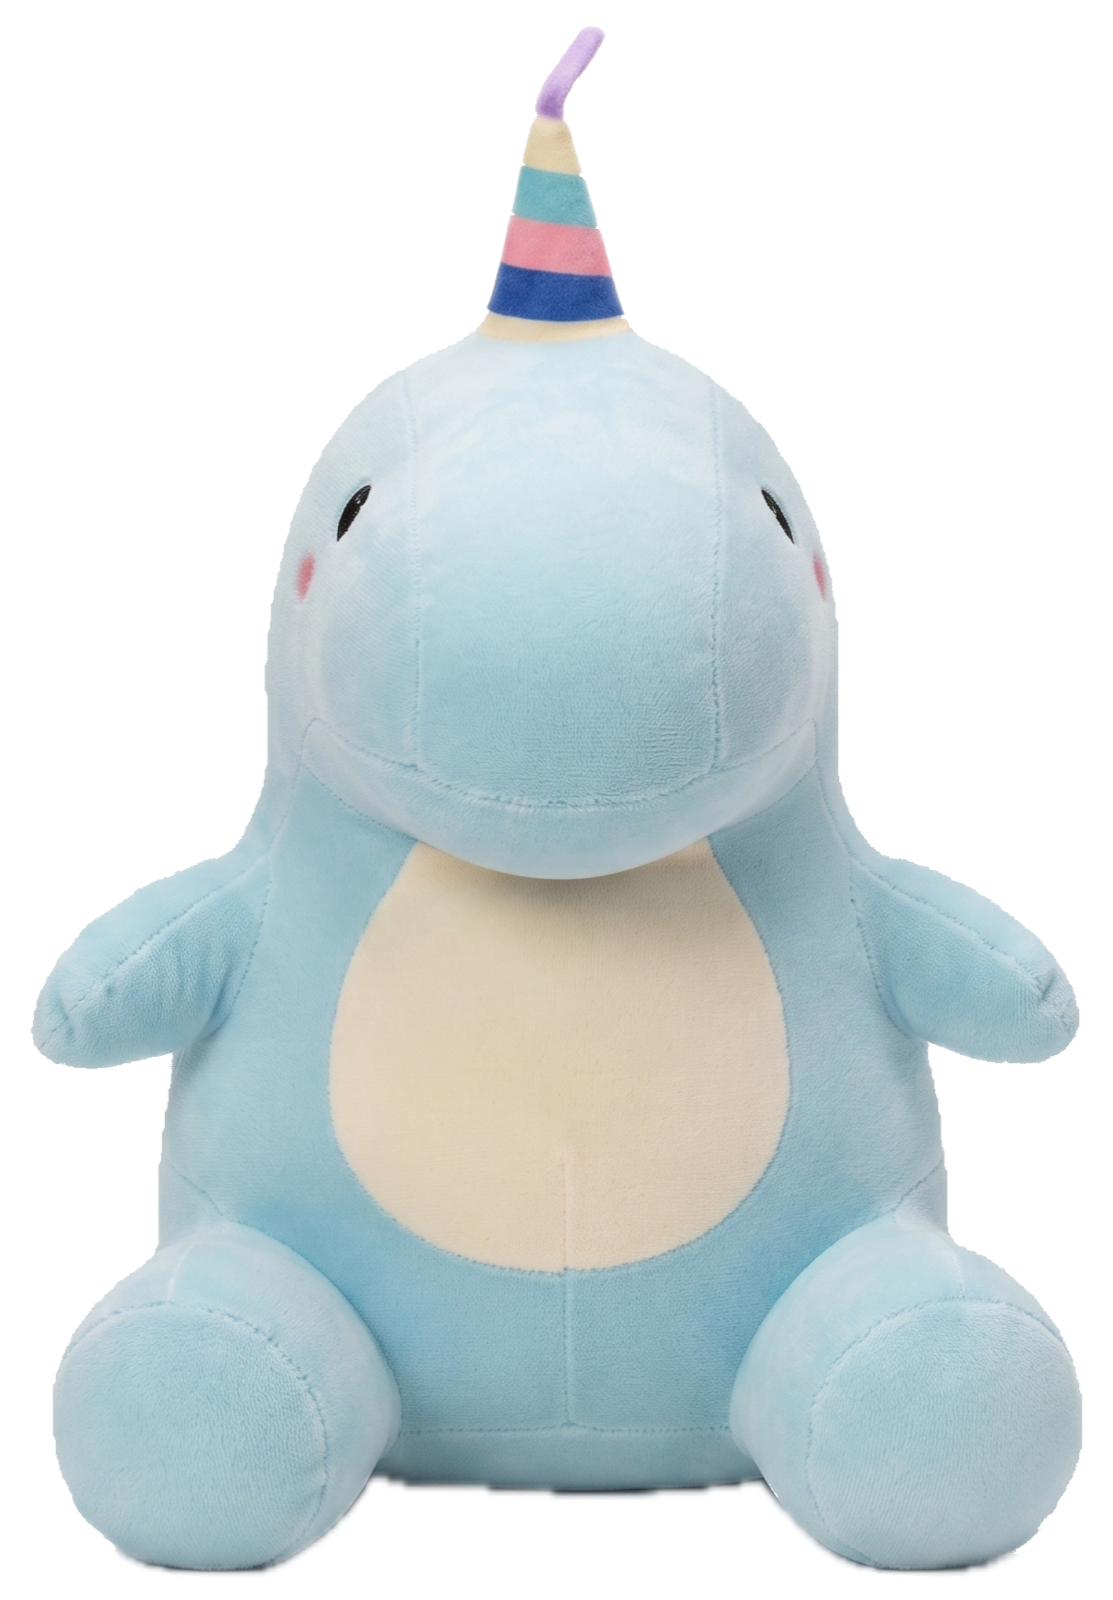
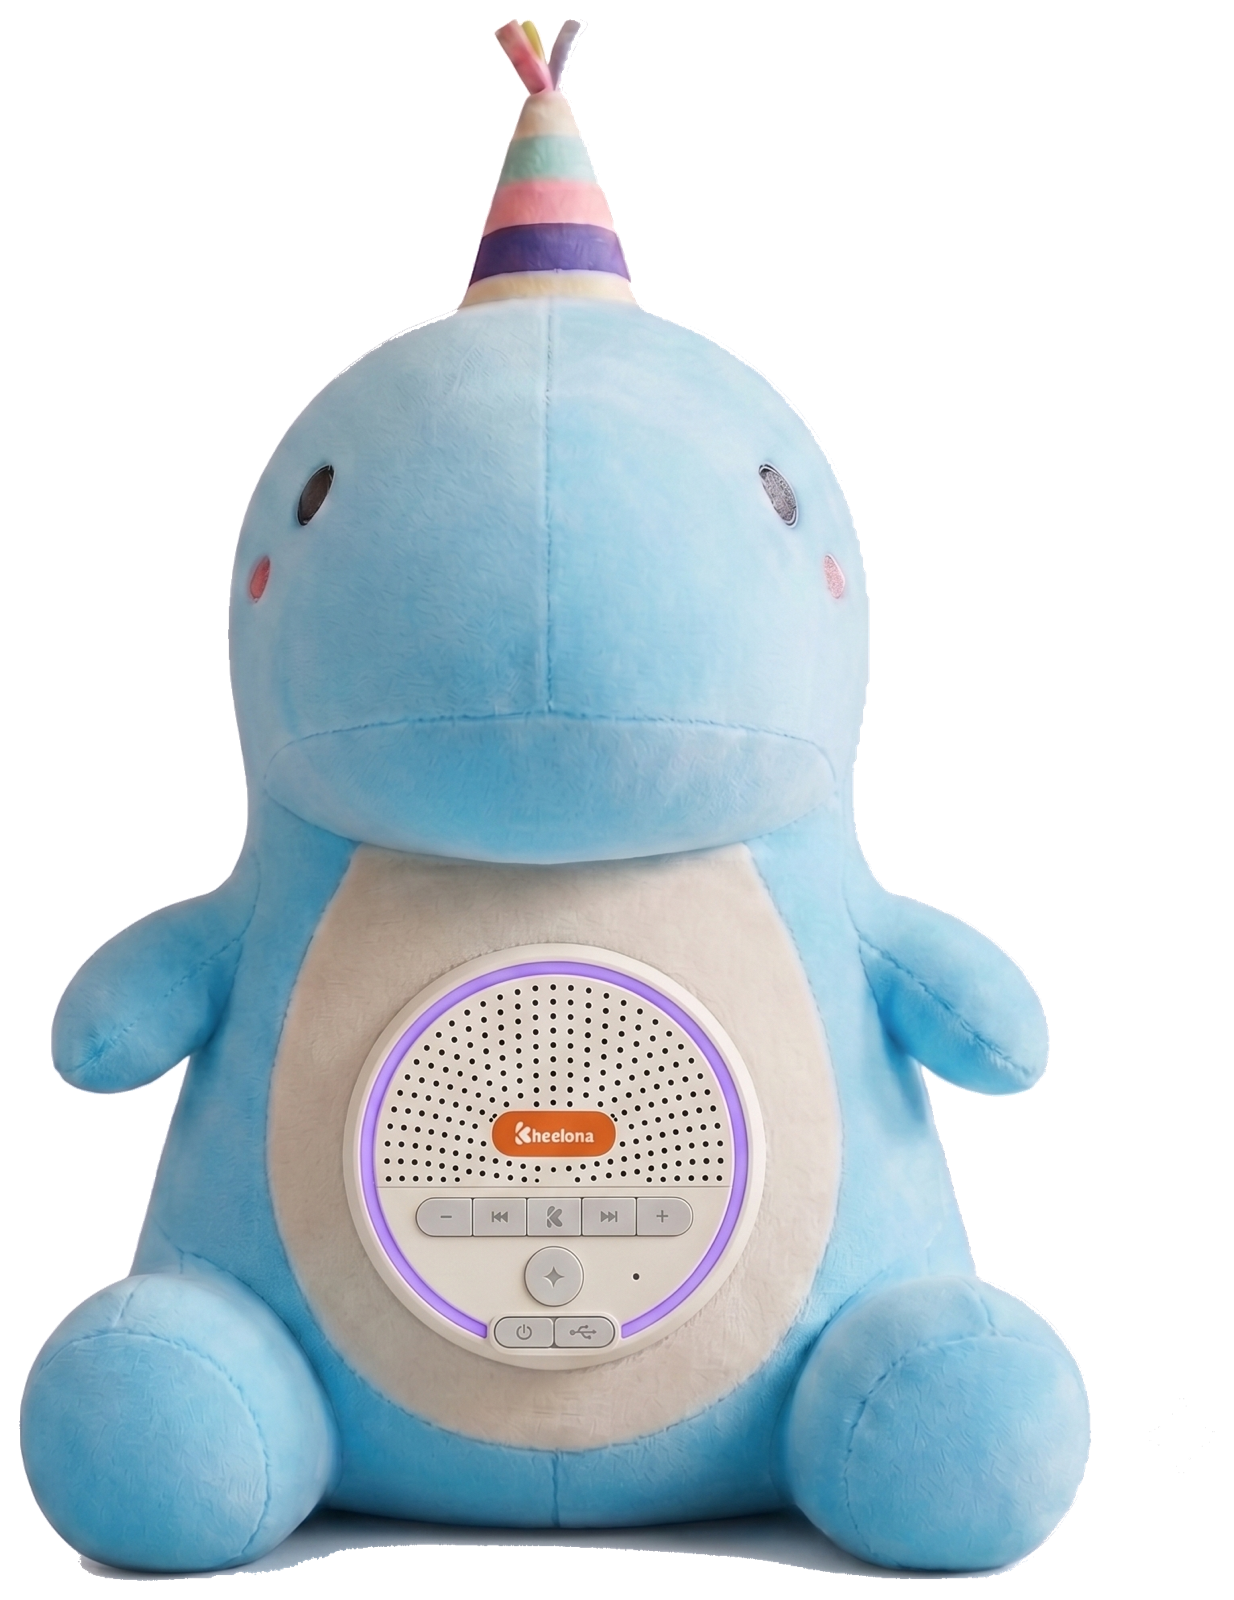
Lumi v2 goes live everywhere, and og.png stops claiming ages 3 to 6
The founder's v2 renders (speaker module in the tummy, per the Playbox
design) replace the plush site-wide. Pipeline per house law: Vision
--no-crop alpha + keycut hybrid so the hat ribbons survive; normalised to
the 1600px house height; installed under the CANONICAL lumi-*-2.png names
so all 8 references hold, with v1 kept web-served as lumi-*-2-old.png per
the founder's keep-for-reference ask. Width props 1113 -> 1234/1239; hero
and family alts now mention the speaker tummy. The unused Playbox speaker
render + v2 sources are staged unpublished in
Design/product-images/generated-2026-07/.

Found while verifying: og.png — on every social share of the live site —
still said 'ages 3 to 6', the band retired in V3. Pixels dodge voice-lint.
Rebuilt at exact 1200x630 (styled HTML card, Chrome capture): V4 hero
copy, correct ages, the D1 brand-orange/ink pill, Kheelu beside the v2
plush. The old card is archived OFF the web root.

Also law'd: next start's optimizer cache (.next/cache/images) survives
rebuilds and serves stale variants of same-named replaced files — clear
it locally; Vercel deploys are immune (fresh cache + etag revalidation).

Tests 254/254, build green, token-check 17.

Claude-Session: https://claude.ai/code/session_01SK5Fcpx85nmwNf6K81ZWa6

diff --git a/src/app/products/lumi/_components/ColorwayPicker.tsx b/src/app/products/lumi/_components/ColorwayPicker.tsx
@@ -17,7 +17,7 @@ const COLORWAYS = [
     swatch: "#8fd0ef",
     img: "/product/lumi-blue-2.png",
     alt: "Lumi Blue, the sky blue talking plush toy, wearing its striped party hat",
-    w: 1113,
+    w: 1234,
     h: 1600,
   },
   {
@@ -26,8 +26,8 @@ const COLORWAYS = [
     swatch: "#bfe6c2",
     img: "/product/lumi-green-2.png",
     alt: "Lumi Green, the pastel green Lumi plush with a striped party hat",
-    w: 1473,
-    h: 1954,
+    w: 1239,
+    h: 1600,
   },
   {
     id: "pink",
@@ -35,8 +35,8 @@ const COLORWAYS = [
     swatch: "#f4c7d8",
     img: "/product/lumi-pink-2.png",
     alt: "Lumi Pink, the soft pink Lumi plush with a striped party hat",
-    w: 617,
-    h: 932,
+    w: 1239,
+    h: 1600,
   },
 ] as const;
 

diff --git a/src/app/products/lumi/_components/LumiHero.tsx b/src/app/products/lumi/_components/LumiHero.tsx
@@ -9,8 +9,8 @@ export function LumiHero({ className }: { className?: string }) {
     <div className={className} style={{ position: "relative" }}>
       <Image
         src="/product/lumi-blue-2.png"
-        alt="Lumi, a small blue talking toy with a striped party hat"
-        width={1113}
+        alt="Lumi, a small blue talking toy with a speaker in its tummy and a striped party hat"
+        width={1234}
         height={1600}
         priority
         fetchPriority="high"

diff --git a/src/features/home/components/HeroStage.tsx b/src/features/home/components/HeroStage.tsx
@@ -33,8 +33,8 @@ export function HeroStage({ className }: { className?: string }) {
       />
       <Image
         src="/product/lumi-blue-2.png"
-        alt="Lumi, the sky blue talking plush toy, wearing its striped party hat"
-        width={1113}
+        alt="Lumi, the sky blue talking plush toy with a speaker in its tummy, wearing its striped party hat"
+        width={1234}
         height={1600}
         priority
         sizes="(max-width: 768px) 58vw, 320px"

diff --git a/src/lib/family.ts b/src/lib/family.ts
@@ -26,8 +26,8 @@ export const FAMILY: readonly FamilyMember[] = [
     ages: "2 to 5",
     note: "Here first. The friend who listens.",
     img: "/product/lumi-blue-2.png",
-    alt: "Lumi, the sky blue talking plush toy, wearing its striped party hat",
-    w: 1113,
+    alt: "Lumi, the sky blue talking plush toy with a speaker in its tummy, wearing its striped party hat",
+    w: 1234,
     h: 1600,
     tint: "bg-blue/15",
     here: true,

diff --git a/src/app/safety/page.tsx b/src/app/safety/page.tsx
@@ -145,7 +145,7 @@ export default function SafetyPage() {
           <Image
             src="/product/lumi-blue-2.png"
             alt="Lumi, the sky blue talking plush toy, sitting calmly"
-            width={1113}
+            width={1234}
             height={1600}
             sizes="(max-width: 768px) 60vw, 300px"
             priority

diff --git a/src/app/not-found.tsx b/src/app/not-found.tsx
@@ -20,7 +20,7 @@ export default function NotFound() {
           <Image
             src="/product/lumi-blue-2.png"
             alt="Lumi, the sky blue talking plush toy, waiting patiently"
-            width={1113}
+            width={1234}
             height={1600}
             sizes="(max-width: 768px) 60vw, 300px"
             priority

diff --git a/docs/qa-report.md b/docs/qa-report.md
@@ -79,6 +79,34 @@ text; the /stories index renders zero pose-fallback cards (the fallback branch s
 the graceful state for future not-yet-arted articles). Verified: 254/254, build green, heroes 200,
 index card count photographic 19/19.
 
+### Lumi v2 product images · 2026-07-31 · founder-supplied renders, site-wide swap
+
+The founder's v2 renders (blue/green/pink, 2070×2048, baked white backgrounds + a speaker module
+visible in the tummy) went through the house pipeline: `cutout --no-crop` for the Vision body
+alpha, then `keycut <in> <out> 24 <vision-alpha>` hybrid — hat ribbons survived, speaker panel and
+purple ring crisp, no halo (verified visually per colour). Normalised to the house 1600px height
+(1234–1239 wide), installed under the CANONICAL names so zero reference churn; the v1 files stay
+web-served as `lumi-*-2-old.png` per the founder's keep-for-reference ask. All 8 code references
+kept, hardcoded width props updated (1113 → 1234/1239), hero/family alts now mention the speaker
+tummy. Sources + the unused Playbox speaker render staged in
+`Design/product-images/generated-2026-07/` (founder: may or may not use — NOT published).
+
+**Found while verifying, fixed: `public/og.png` still said "ages 3 to 6"** — the retired band,
+live on every social share, invisible to voice-lint because it is pixels. Rebuilt at exact
+1200×630 via a styled HTML card screenshotted in Chrome (Glory + Instrument Sans from Google
+Fonts): V4 hero copy, correct `ages 2 to 5`, the D1 brand-orange/ink pill, Kheelu + the v2 plush.
+Old card archived at `Design/product-images/generated-2026-07/og-2026-07-old.png` (off the web
+root — it carries the stale claim). LESSON: image assets carry claims too; check og/posters when
+copy laws change.
+
+**Local gotcha, cost 20 minutes: `next start`'s image optimizer cache survives rebuilds.**
+`.next/cache/images/` kept serving the OLD optimized variants for the same-named replaced files
+(raw URL served v2 byte-exact while `/_next/image` served v1). Fix: `rm -rf .next/cache/images`
+and restart. Vercel deployments are immune (fresh optimizer cache per deploy + source etag
+revalidation). Verified after clear: fresh bytes at every width, v2 rendering in the hero.
+
+Tests 254/254, build green, token-check 17.
+
 ## Ahrefs Web Analytics · 2026-07-30 · commit 15902c5 · live-verified
 
 Added at the founder's request. Raw `<script async>` in the root layout `<head>`, so it ships in the

diff --git a/CLAUDE.md b/CLAUDE.md
@@ -118,7 +118,7 @@ Rules for any change:
 
 ## Commands (app code lives in `src/`)
 - Dev: `npm run dev` (port 3000)
-- Prod: `npx next build && npx next start -p 3456` (local prod URL the founder uses: http://localhost:3456)
+- Prod: `npx next build && npx next start -p 3456` (local prod URL the founder uses: http://localhost:3456). If a replaced `public/` image serves stale through `/_next/image`, `rm -rf .next/cache/images` — the optimizer cache survives rebuilds (qa-report 2026-07-31). Check `lsof -iTCP:3456` for stale servers from old sessions.
 - Test: `npm test` (Vitest; a test per component) · Storybook: `npm run storybook` / `npm run build-storybook`
 - Deploy target: Vercel, project Root Directory = **repo root** (the app moved out of
   `site/` on 2026-07-28; paths in older docs and checkpoints that say `site/...` now mean
